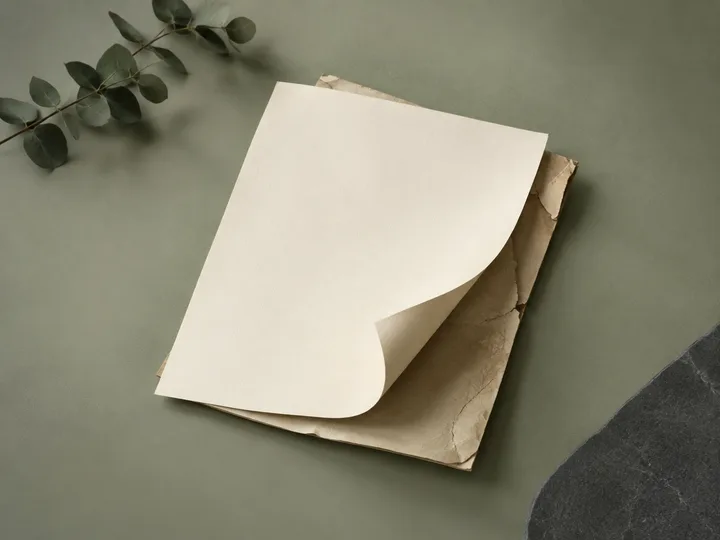
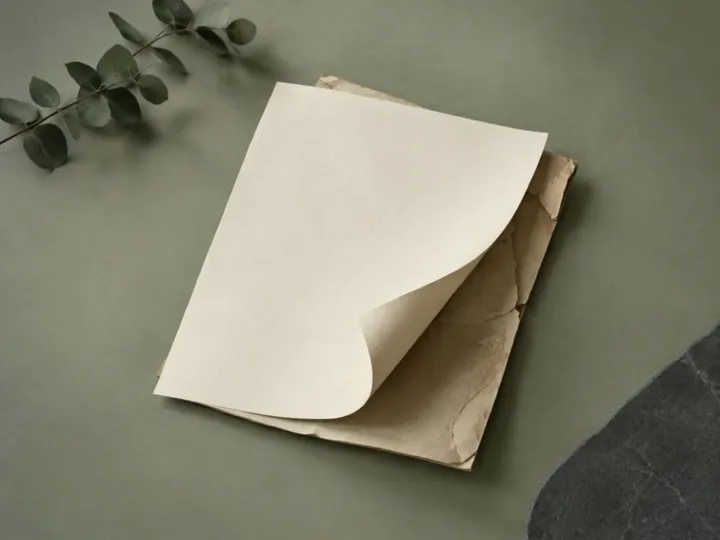
Wagner Seiten: Clip für die Karte Erneuern
Claude-Session: https://claude.ai/code/session_01UZ8XyWbMYuEgZWtRBHNaH2

diff --git a/kunden/elias-studio/public/index.html b/kunden/elias-studio/public/index.html
@@ -98,7 +98,7 @@
         <p class="fachwort">Fachbegriff: Neubau</p>
       </li>
       <li class="plakette einblenden">
-        <div class="plakette-bild" aria-hidden="true"><img src="/medien/leistung-alt.webp" alt="" width="720" height="540" loading="lazy"></div>
+        <div class="plakette-bild" aria-hidden="true"><video muted loop playsinline preload="none" poster="/medien/leistung-alt.webp" width="720" height="540"><source src="/medien/leistung-alt.mp4" type="video/mp4"></video></div>
         <div class="plakette-kopf"><svg class="sym" viewBox="0 0 24 24" aria-hidden="true" focusable="false"><path d="M19 8a7.5 7.5 0 0 0-13-1.5M5 4v3h3M5 16a7.5 7.5 0 0 0 13 1.5M19 20v-3h-3"/></svg><p class="plakette-nr" aria-hidden="true">02</p></div>
         <h3>Bestehende Seite erneuern</h3>
         <p>Neue Gestaltung und Technik. Ihre guten Texte und Adresse bleiben.</p>
